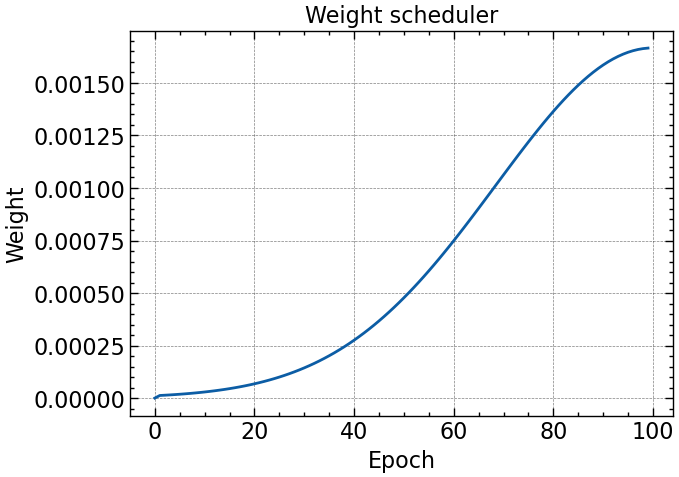
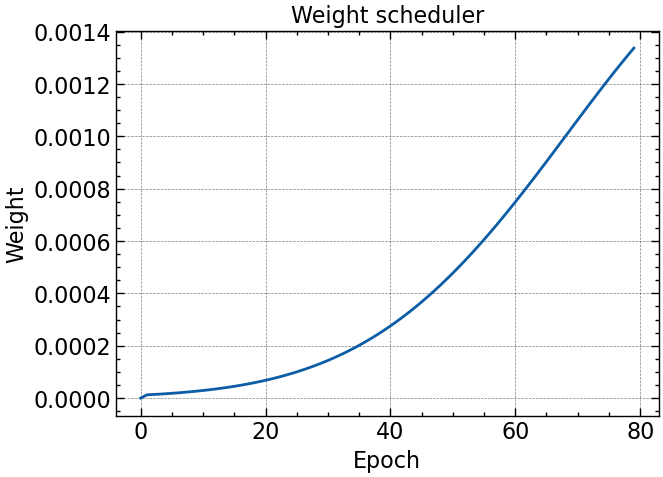
semisupervised pimodel implementation

diff --git a/semi_supervised_learning/semi_supervised_learning_tutorial_main.md b/semi_supervised_learning/semi_supervised_learning_tutorial_main.md
@@ -286,7 +286,7 @@ max_epochs = 100
 max_val = 1.
 mult = 5
 
-x = np.arange(0, 100)
+x = np.arange(0, 80)
 y = [weight_scheduler(i, max_epochs, max_val, mult, 100, 60000) for i in x]
 plt.figure(figsize=(7, 5))
 plt.plot(x, y)
@@ -301,9 +301,15 @@ plt.title('Weight scheduler');
     
 
 
-Weight ramp up function 은 시작을 0으로 Epoch 이 진행될수록 단조증가하는 함수이다. 
+Weight ramp up function 은 시작을 0으로 Epoch 이 진행될수록 단조증가하는 함수로, 논문 저자들이 사용한 function 을 사용하였다.
 
-$\exp(-(1 - \frac{epoch}{maxepochs})^2)$
+<p align="center">
+    <img src="semi_supervised_images/rampup.png" width="1000"/>
+</p>
+
+$$
+\exp[-(5 - \frac{epoch}{maxepochs})^2]
+$$
 
 
 ```python
@@ -383,7 +389,7 @@ max_val = 1.
 optimizer = torch.optim.Adam(model.parameters(), lr=lr, betas=(0.9, 0.99))
 ```
 
-학습을 위한 모델 파라미터는 위와 같이 설정하였다. 본 논문에서 사용 한 것 처럼 ADAM 을 optimizer 로 사용하였으며, 50 epoch 을 학습 기간으로 설정하였다.
+학습을 위한 모델 파라미터는 위와 같이 설정하였다. 본 논문에서 사용 한 것 처럼 momentum parameter $\beta_1 = 0.9, \beta_2 = 0.999$ 로 설정한 ADAM 을 optimizer 로 사용하였으며, 50 epoch 을 학습 기간으로 설정하였다.
 
 
 ```python
